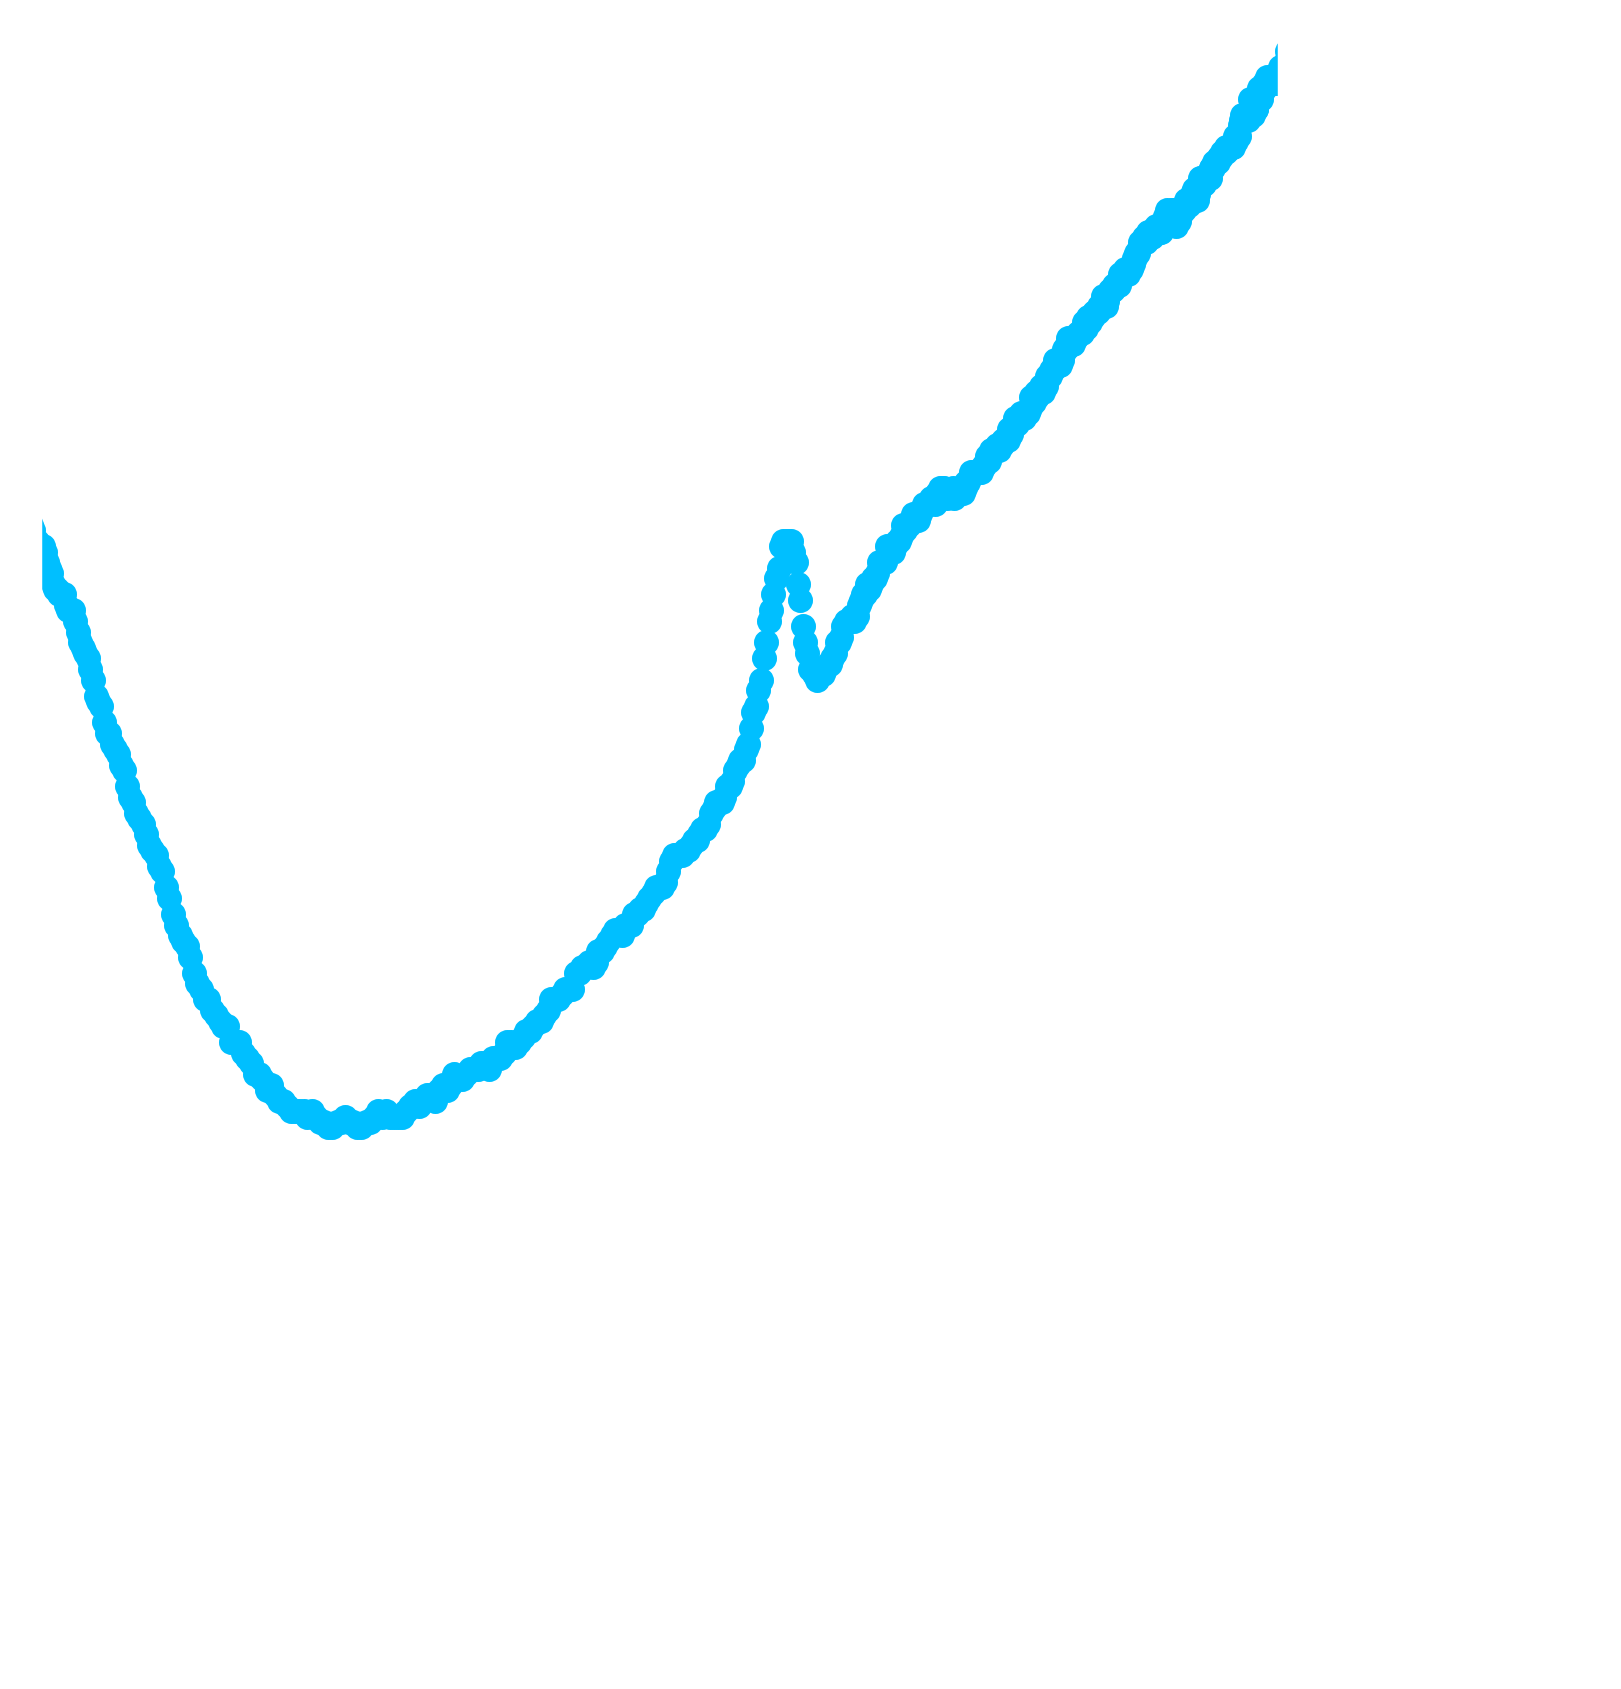
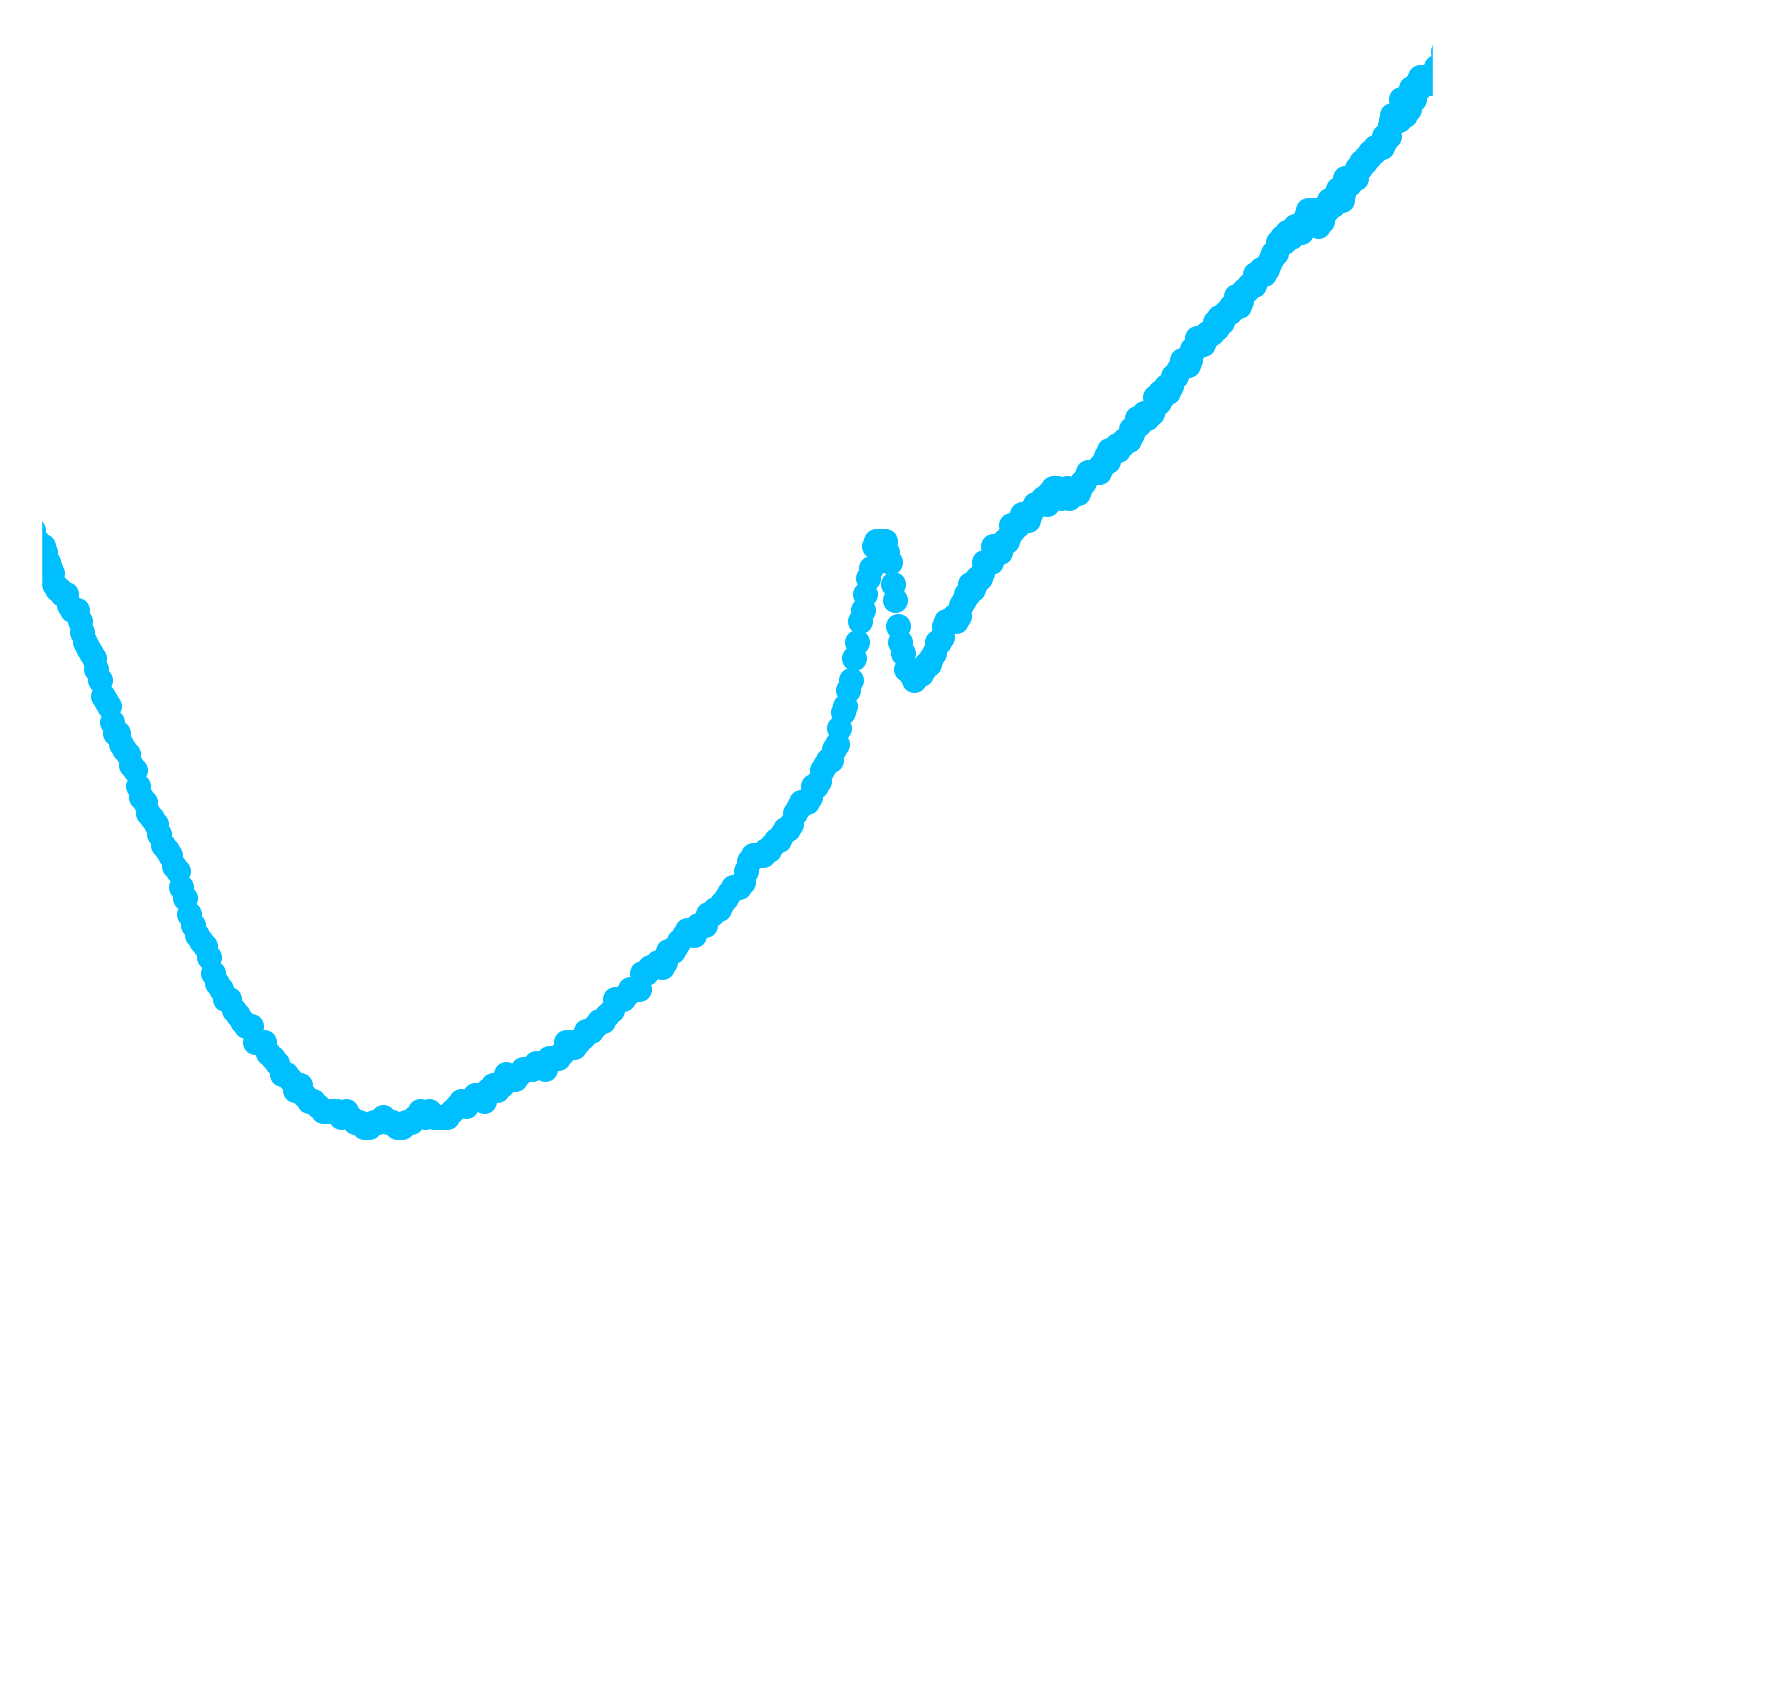
x

diff --git a/script6.py b/script6.py
@@ -13,7 +13,7 @@ class run:
 		self.export_folder = "export/script" + __name__[-1] + "/"
 		self.export_extension = ".png"
 		self.dpi = 400
-		self.figsize0 = (4, 4.5)
+		self.figsize0 = (4.5, 4.5)
 		self.figsize = (6.5, 4.5)
 		self.figsize2 = (7.5, 4.5)
 		self.figsize3 = (8.5, 4.5)
@@ -81,7 +81,7 @@ class run:
 		
 		# Plot R_P_1 over T, (R_P_1 = R_Probe_1/Ohm)(Cu)
 		print(r"Resistance of Cu over Temperature")
-		fig = plt.figure(figsize=self.figsize3, dpi=80).add_subplot(1, 1, 1)
+		fig = plt.figure(figsize=self.figsize2, dpi=80).add_subplot(1, 1, 1)
 		plt.plot(T,R_P_1,'.', label='Widerstand von Cu', color = "deepskyblue", markersize=self.markersize)
 		plt.xlabel(r"Temperatur T / K")
 		plt.ylabel(r"Cu Widerstand R / $\Omega$")
@@ -277,7 +277,7 @@ class run:
 			
 		# Plot R_P_1 over T, (R_P_1 = R_Probe_1/Ohm)(Nb)
 		print(r"Resistance of Nb over Temperature")
-		fig = plt.figure(figsize=self.figsize3, dpi=80).add_subplot(1, 1, 1)
+		fig = plt.figure(figsize=self.figsize2, dpi=80).add_subplot(1, 1, 1)
 		plt.plot(T,R_P_1,'.', label='Resistance of Nb', color = "deepskyblue", markersize=self.markersize)
 		plt.xlabel(r"Temperatur T / K")
 		plt.ylabel(r"Nb Widerstand R / $\Omega$")
@@ -287,4 +287,41 @@ class run:
 		plt.savefig(self.export_folder+"R_Nb(T)"+self.export_extension, bbox_inches='tight', dpi=self.dpi)
 		plt.show()
 
+
+			
 		
+		data = dataSet[1]
+		t, T, R_P_1, R_T, R_P_2 = data['t'],data['T'],data['R_P_1'],data['R_T'],data['R_P_2']
+
+		# Plot ln(sigma) over 1/T, (R_P_2 = R_Probe_2/Ohm (Si))
+		R_P_2+=np.abs(min(R_P_2))+100
+		sigma = 6.5*10**(-3)/(R_P_2*5.4*10**(-6))
+											
+		x = 1/T
+		y= np.log(sigma)
+		
+		# linear fit
+		plot_range = [0,3709]
+		fit_range2 = [2650, 3415]
+		fit_plot_range2 = [2650, 3415]
+		
+		fit_parameters_Si_lin = [["m", "n"],
+														 [-1  ,   1]]		 # start values
+		
+		popt, pcov = curve_fit(lin, x[fit_range2[0]:fit_range2[1]], y[fit_range2[0]:fit_range2[1]], fit_parameters_Si_lin[1])  
+		popt_sigma_lin = popt.copy()
+		pcov_sigma_lin = pcov.copy()
+		
+		
+		print("ln(sigma) of Si over inverse Temperature")
+		fig = plt.figure(figsize=self.figsize2, dpi=80).add_subplot(1, 1, 1)
+		plt.plot(x[plot_range[0]:plot_range[1]], y[plot_range[0]:plot_range[1]],'.', label='ln($\sigma$)', color = "deepskyblue", markersize=self.markersize)
+		plt.plot(x[fit_plot_range2[0]:fit_plot_range2[1]], lin(x, *popt_sigma_lin)[fit_plot_range2[0]:fit_plot_range2[1]], 'r--', label="Linear-Fit", linewidth=self.linewidth_fit)
+		plt.xlabel(r"reziproke Temperatur 1/T / 1/K")
+		plt.ylabel(r"ln($\sigma$) / $\ln((\Omega\cdot m)^{-1})$")
+		plt.legend()
+		#plt.xlim(0, 0.04)
+		#plt.ylim(0, 120)
+		maximize()
+		plt.savefig(self.export_folder+"R_Nb(T)"+self.export_extension, bbox_inches='tight', dpi=self.dpi)
+		plt.show()

diff --git a/script2.py b/script2.py
@@ -242,7 +242,7 @@ class run:
 		# Load Nb-Si data
 		# t=time/s, T = Temp/Kelvin, R_P_1 = R_Probe_1/Ohm (Nb), R_T = R_Thermometer/Ohm, R_P_2 = R_Probe_2/Ohm (Si)
 		#t, T, R_P_1, R_T, R_P_2 = np.loadtxt("Heinzelmann_Vincent_Nb-Si.dat",  unpack = True, skiprows = 6)
-		data = dataSet[0]
+		data = dataSet[1]
 		t, T, R_P_1, R_T, R_P_2 = data['t'],data['T'],data['R_P_1'],data['R_T'],data['R_P_2']
 			
 		# Plot T over t
@@ -350,7 +350,7 @@ class run:
 		#plt.xlim(0, 0.04)
 		#plt.ylim(0, 120)
 		#plt.yscale('log')
-		plt.title(r"$\ln(\sigma)$ of Si over inversed Temperature")
+		plt.title(r"$\ln(\sigma)$ of Si over inverse Temperature")
 		#plt.savefig('log_sigma_over_rec_temp2_Fit.pdf', bbox_inches='tight')
 		plt.show()
 		
